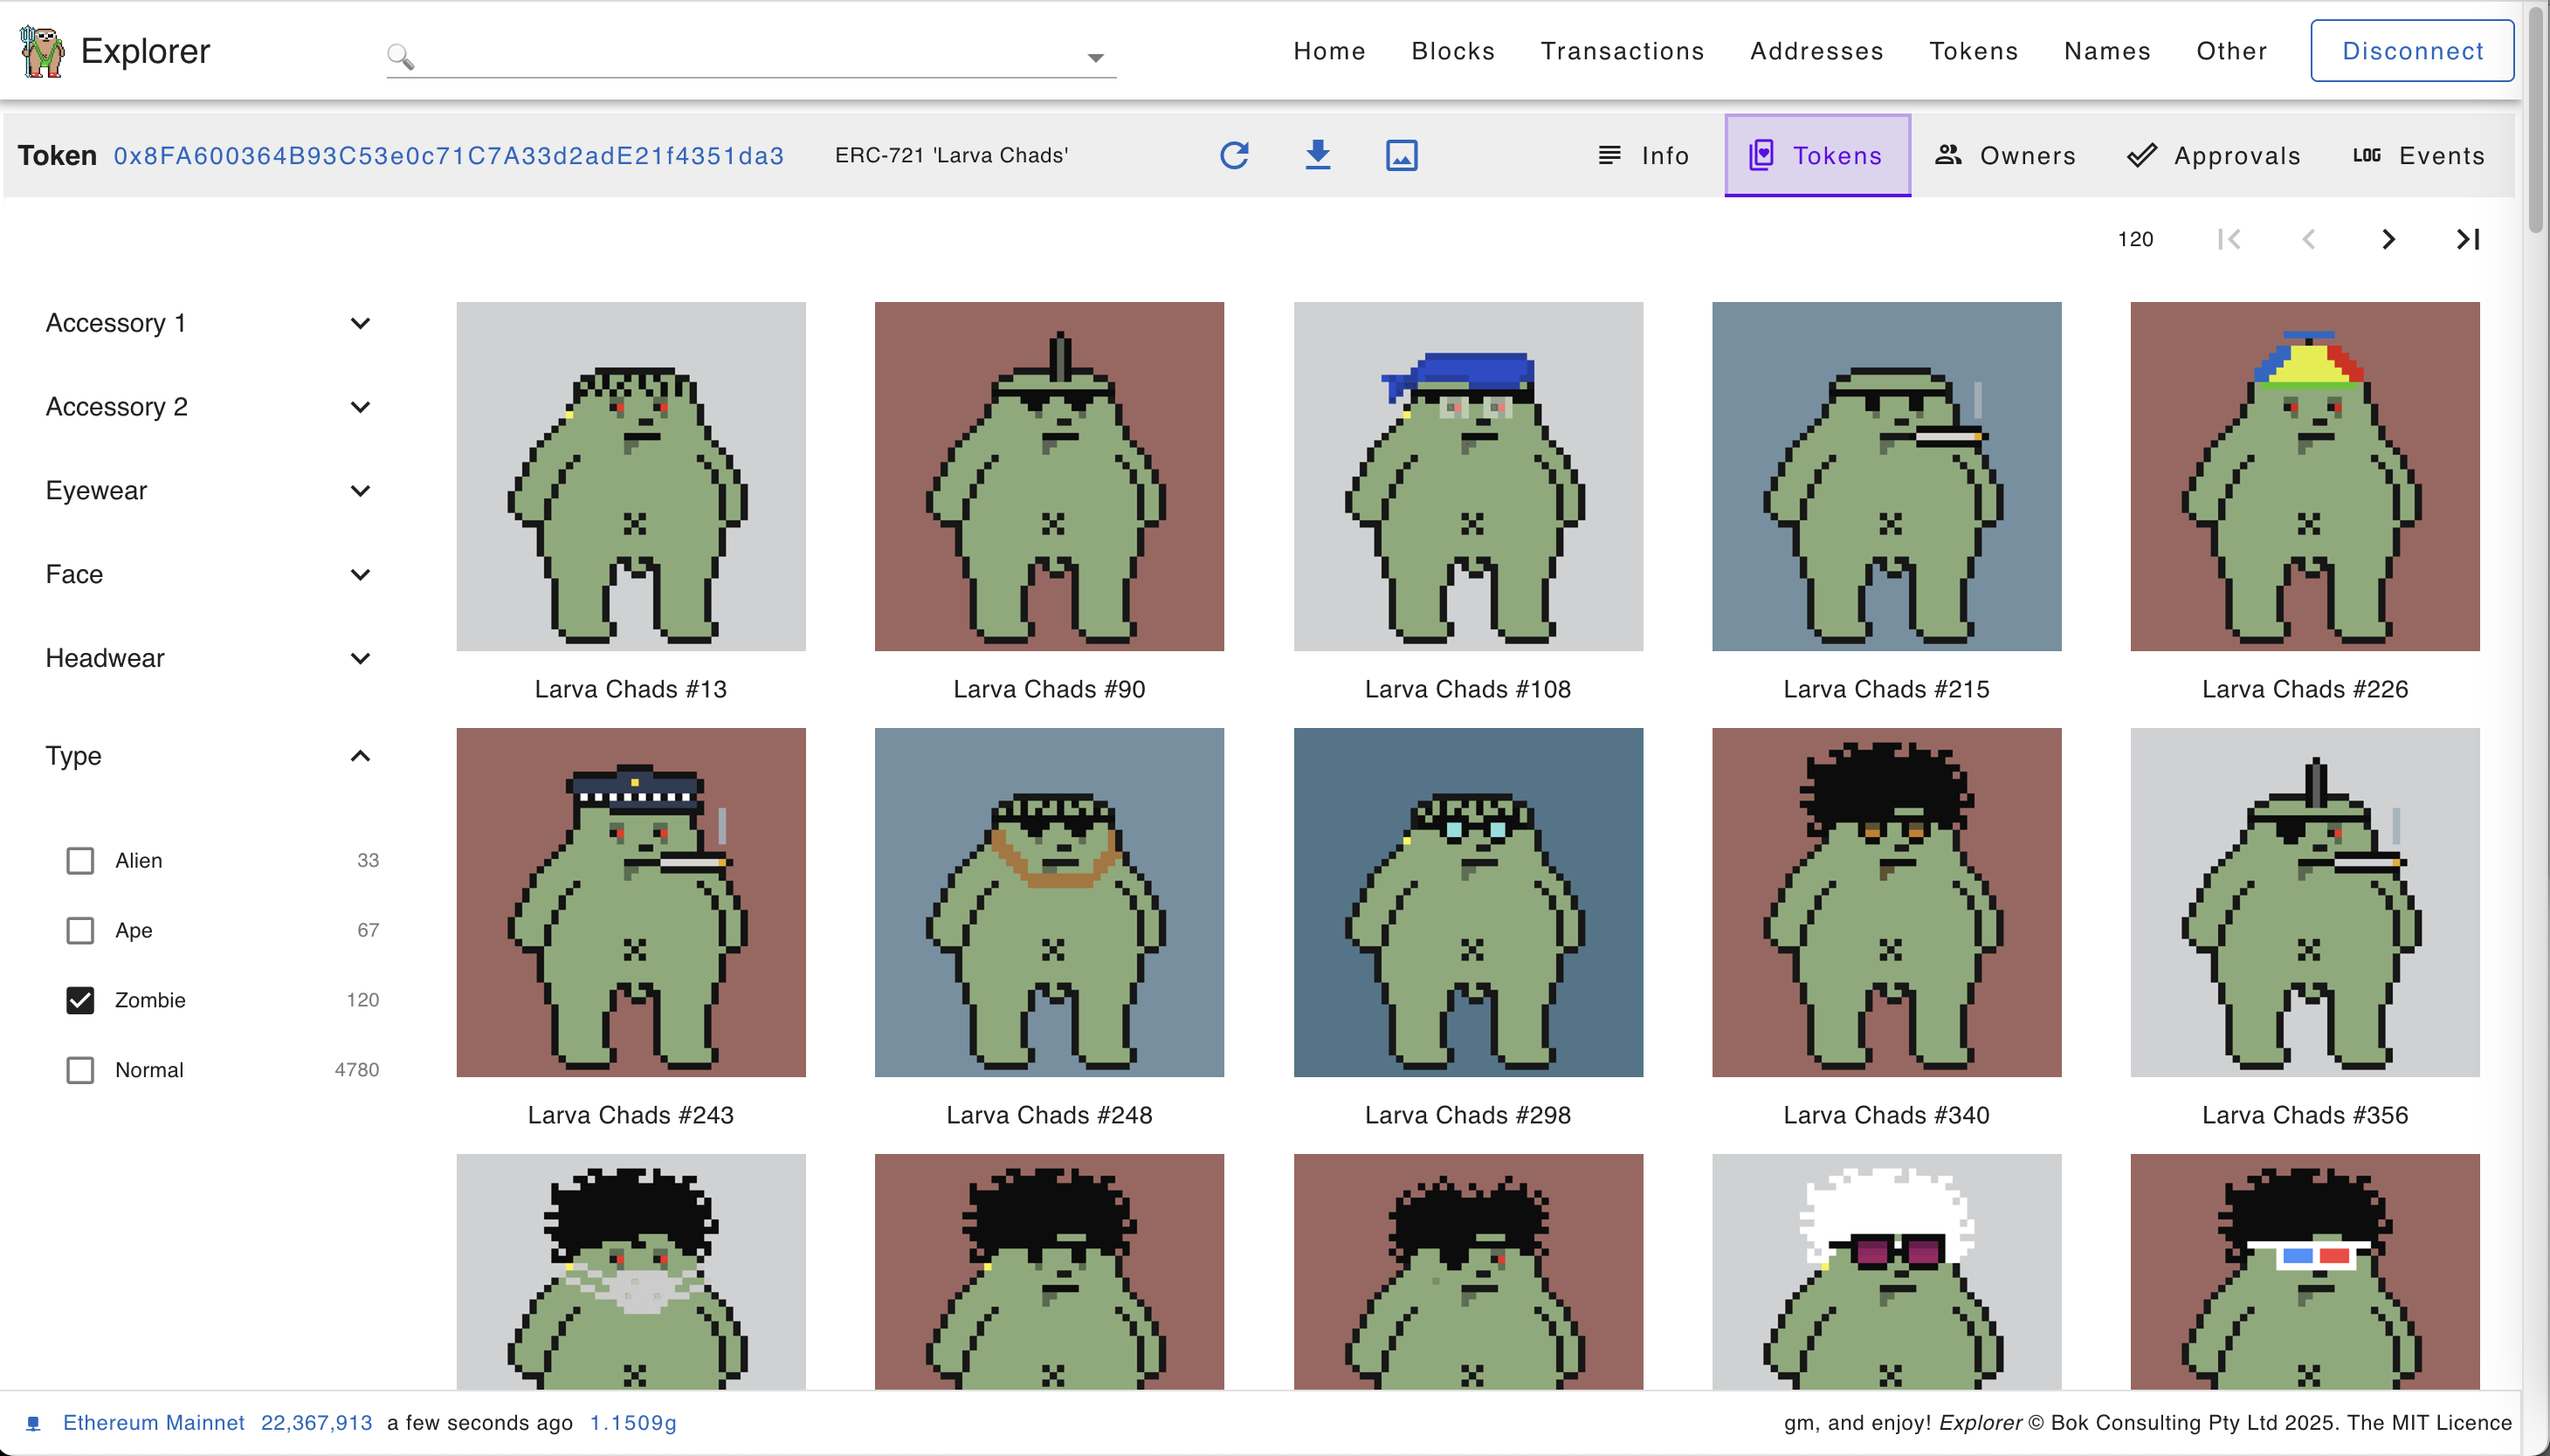
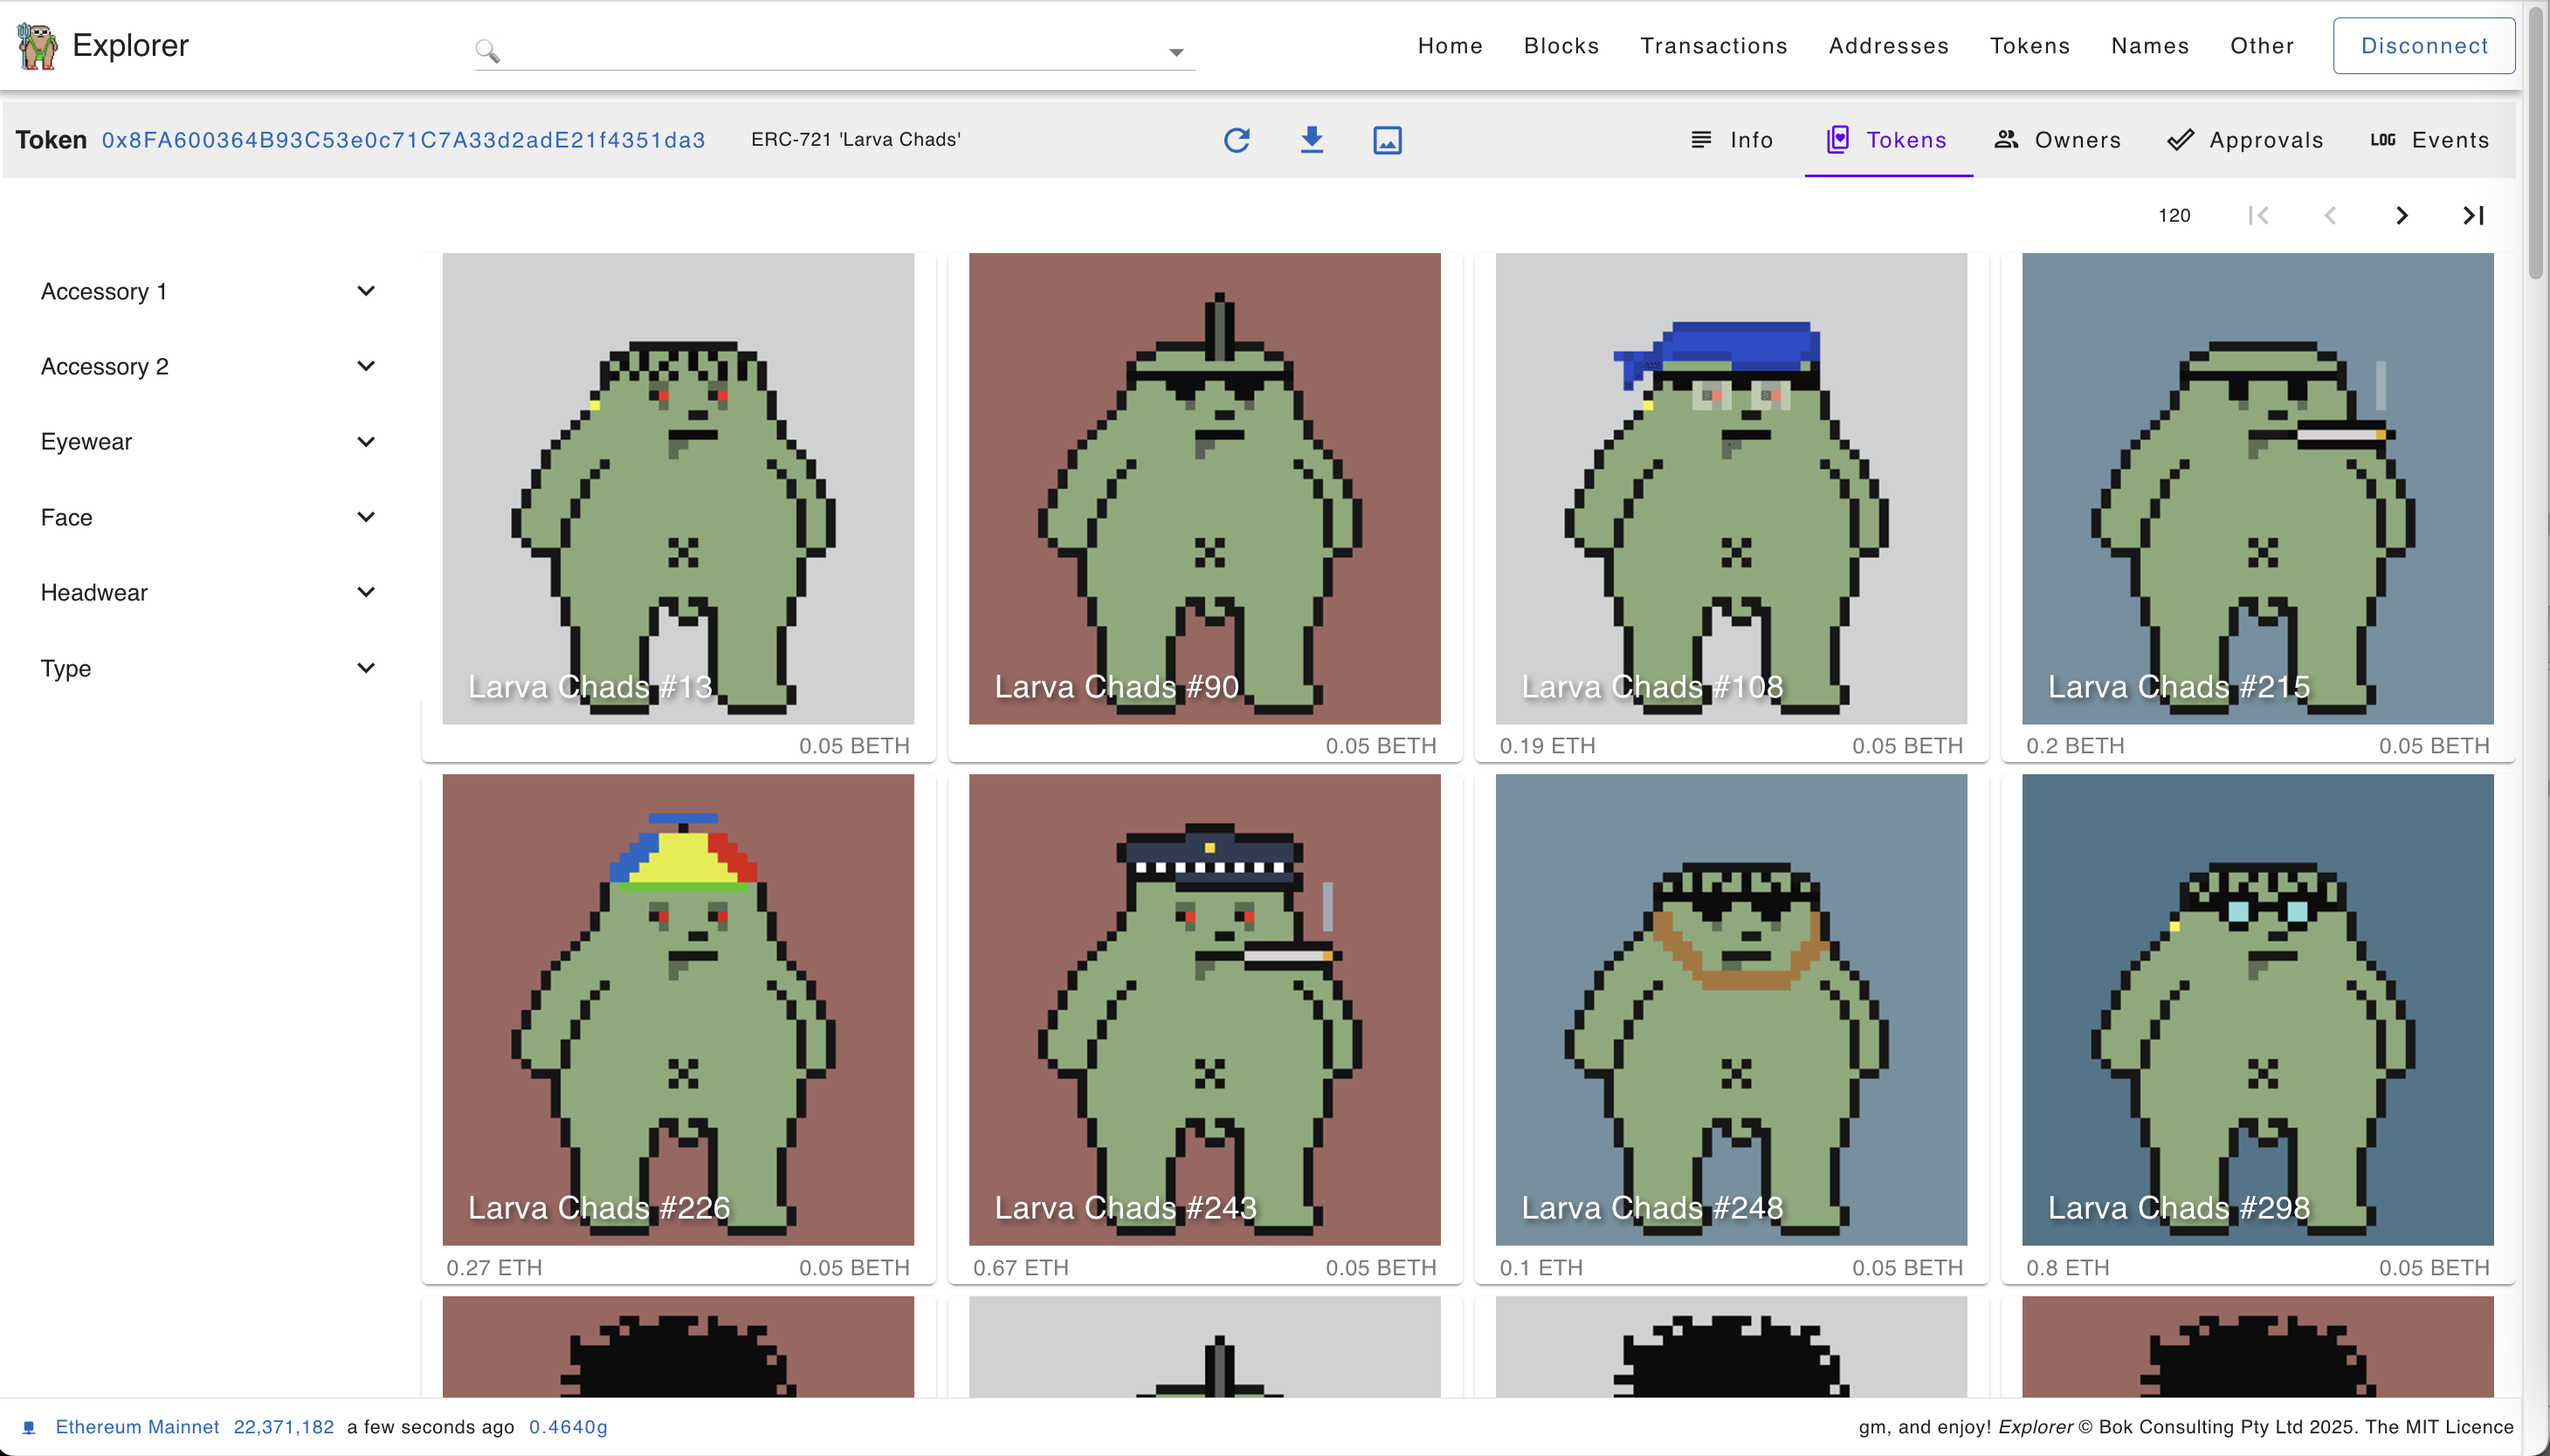
tokens, and screenshot

diff --git a/docs/token.js b/docs/token.js
@@ -162,20 +162,41 @@ const Token = {
                     </v-expansion-panels>
                   </v-col>
                   <v-col cols="10" align="left">
-                    <v-row no-gutters dense>
+                    <v-row dense>
                       <v-col v-for="(item, index) in nftFilteredTokensPaged" :key="index" align="center">
-                        <v-avatar class="ma-3" rounded="0" size="200">
-                          <v-img :src="item.image"></v-img>
-                        </v-avatar>
-                        <br />
-                        {{ item.name }}
+                        <v-card>
+                          <v-img :src="item.image" width="300" cover class="align-end text-white">
+                            <v-card-title class="text-left" style="text-shadow: 2px 2px 4px rgba(0, 0, 0, 0.5);">{{ item.name }}</v-card-title>
+                          </v-img>
+                          <v-card-subtitle class="pt-1 d-flex">
+                            <div v-if="item.lastSale" v-tooltip="'Last sale @ ' + formatTimestamp(item.lastSale.timestamp) + ' ~' + item.lastSale.amountUSD + ' USD'">{{ item.lastSale.amount + " " + item.lastSale.currency }}</div>
+                            <v-spacer></v-spacer>
+                            <div v-if="item.topBid" v-tooltip="'Top bid on ' + item.topBid.source + ' ~' + item.topBid.amountUSD + ' USD'">{{ item.topBid.amount + " " + item.topBid.currency }}</div>
+                          </v-card-subtitle>
+                          <!-- <v-card-text>
+                            <div>Whitehaven Beach</div>
+                            <div>Whitsunday Island, Whitsunday Islands</div>
+                          </v-card-text> -->
+                          <!-- <v-card-actions>
+                            <v-btn color="orange" text="Share"></v-btn>
+                            <v-btn color="orange" text="Explore"></v-btn>
+                          </v-card-actions> -->
+                          <!-- <v-card-actions>
+                            <div class="flex-column align-start">
+                              <small class="mb-4 text-high-emphasis opacity-60">{{ 'item.action' }}</small>
+                              <v-spacer></v-spacer>
+                              <v-icon color="yellow-darken-3">mdi-star</v-icon>
+                            </div>
+                            <v-spacer></v-spacer>
+                            <div class="flex-column align-end">
+                              <small class="mb-4 text-high-emphasis opacity-60">{{ 'item.action' }}</small>
+                              <v-spacer></v-spacer>
+                              <v-icon color="yellow-darken-3" class="text-right">mdi-star</v-icon>
+                            </div>
+                          </v-card-actions> -->
+                        </v-card>
                       </v-col>
                     </v-row>
-                    <!-- <pre>
-settings.attributes: {{ settings.attributes }}
-                    <br />
-nftFilteredTokens.slice(0, 10): {{ nftFilteredTokens.slice(0, 10) }}
-                    </pre> -->
                     <v-toolbar flat color="transparent" density="compact">
                       <v-spacer></v-spacer>
                       <v-select
@@ -830,7 +851,9 @@ nftOwnersList: {{ nftOwnersList }}
       return results;
     },
     nftFilteredTokensPaged() {
-      return this.nftFilteredTokens.slice((this.settings.tokens.currentPage - 1) * this.settings.tokens.itemsPerPage, this.settings.tokens.currentPage * this.settings.tokens.itemsPerPage);
+      const results = this.nftFilteredTokens.slice((this.settings.tokens.currentPage - 1) * this.settings.tokens.itemsPerPage, this.settings.tokens.currentPage * this.settings.tokens.itemsPerPage);
+      console.log(now() + " Token - computed.nftFilteredTokensPaged - results: " + JSON.stringify(results, null, 2));
+      return results;
     },
     nftOwnersList() {
       const results = [];
@@ -1039,6 +1062,12 @@ nftOwnersList: {{ nftOwnersList }}
       }
       return null;
     },
+    formatTimestamp(ts) {
+      if (ts != null) {
+        return moment.unix(ts).format("YYYY-MM-DD HH:mm:ss");
+      }
+      return null;
+    },
     commify0(n) {
       if (n != null) {
         return Number(n).toLocaleString(undefined, { minimumFractionDigits: 0, maximumFractionDigits: 0 });
@@ -1046,7 +1075,7 @@ nftOwnersList: {{ nftOwnersList }}
       return null;
     },
     saveSettings() {
-      console.log(now() + " Token - methods.saveSettings - settings: " + JSON.stringify(this.settings, null, 2));
+      // console.log(now() + " Token - methods.saveSettings - settings: " + JSON.stringify(this.settings, null, 2));
       if (this.initialised) {
         localStorage.explorerTokenSettings = JSON.stringify(this.settings);
       }
